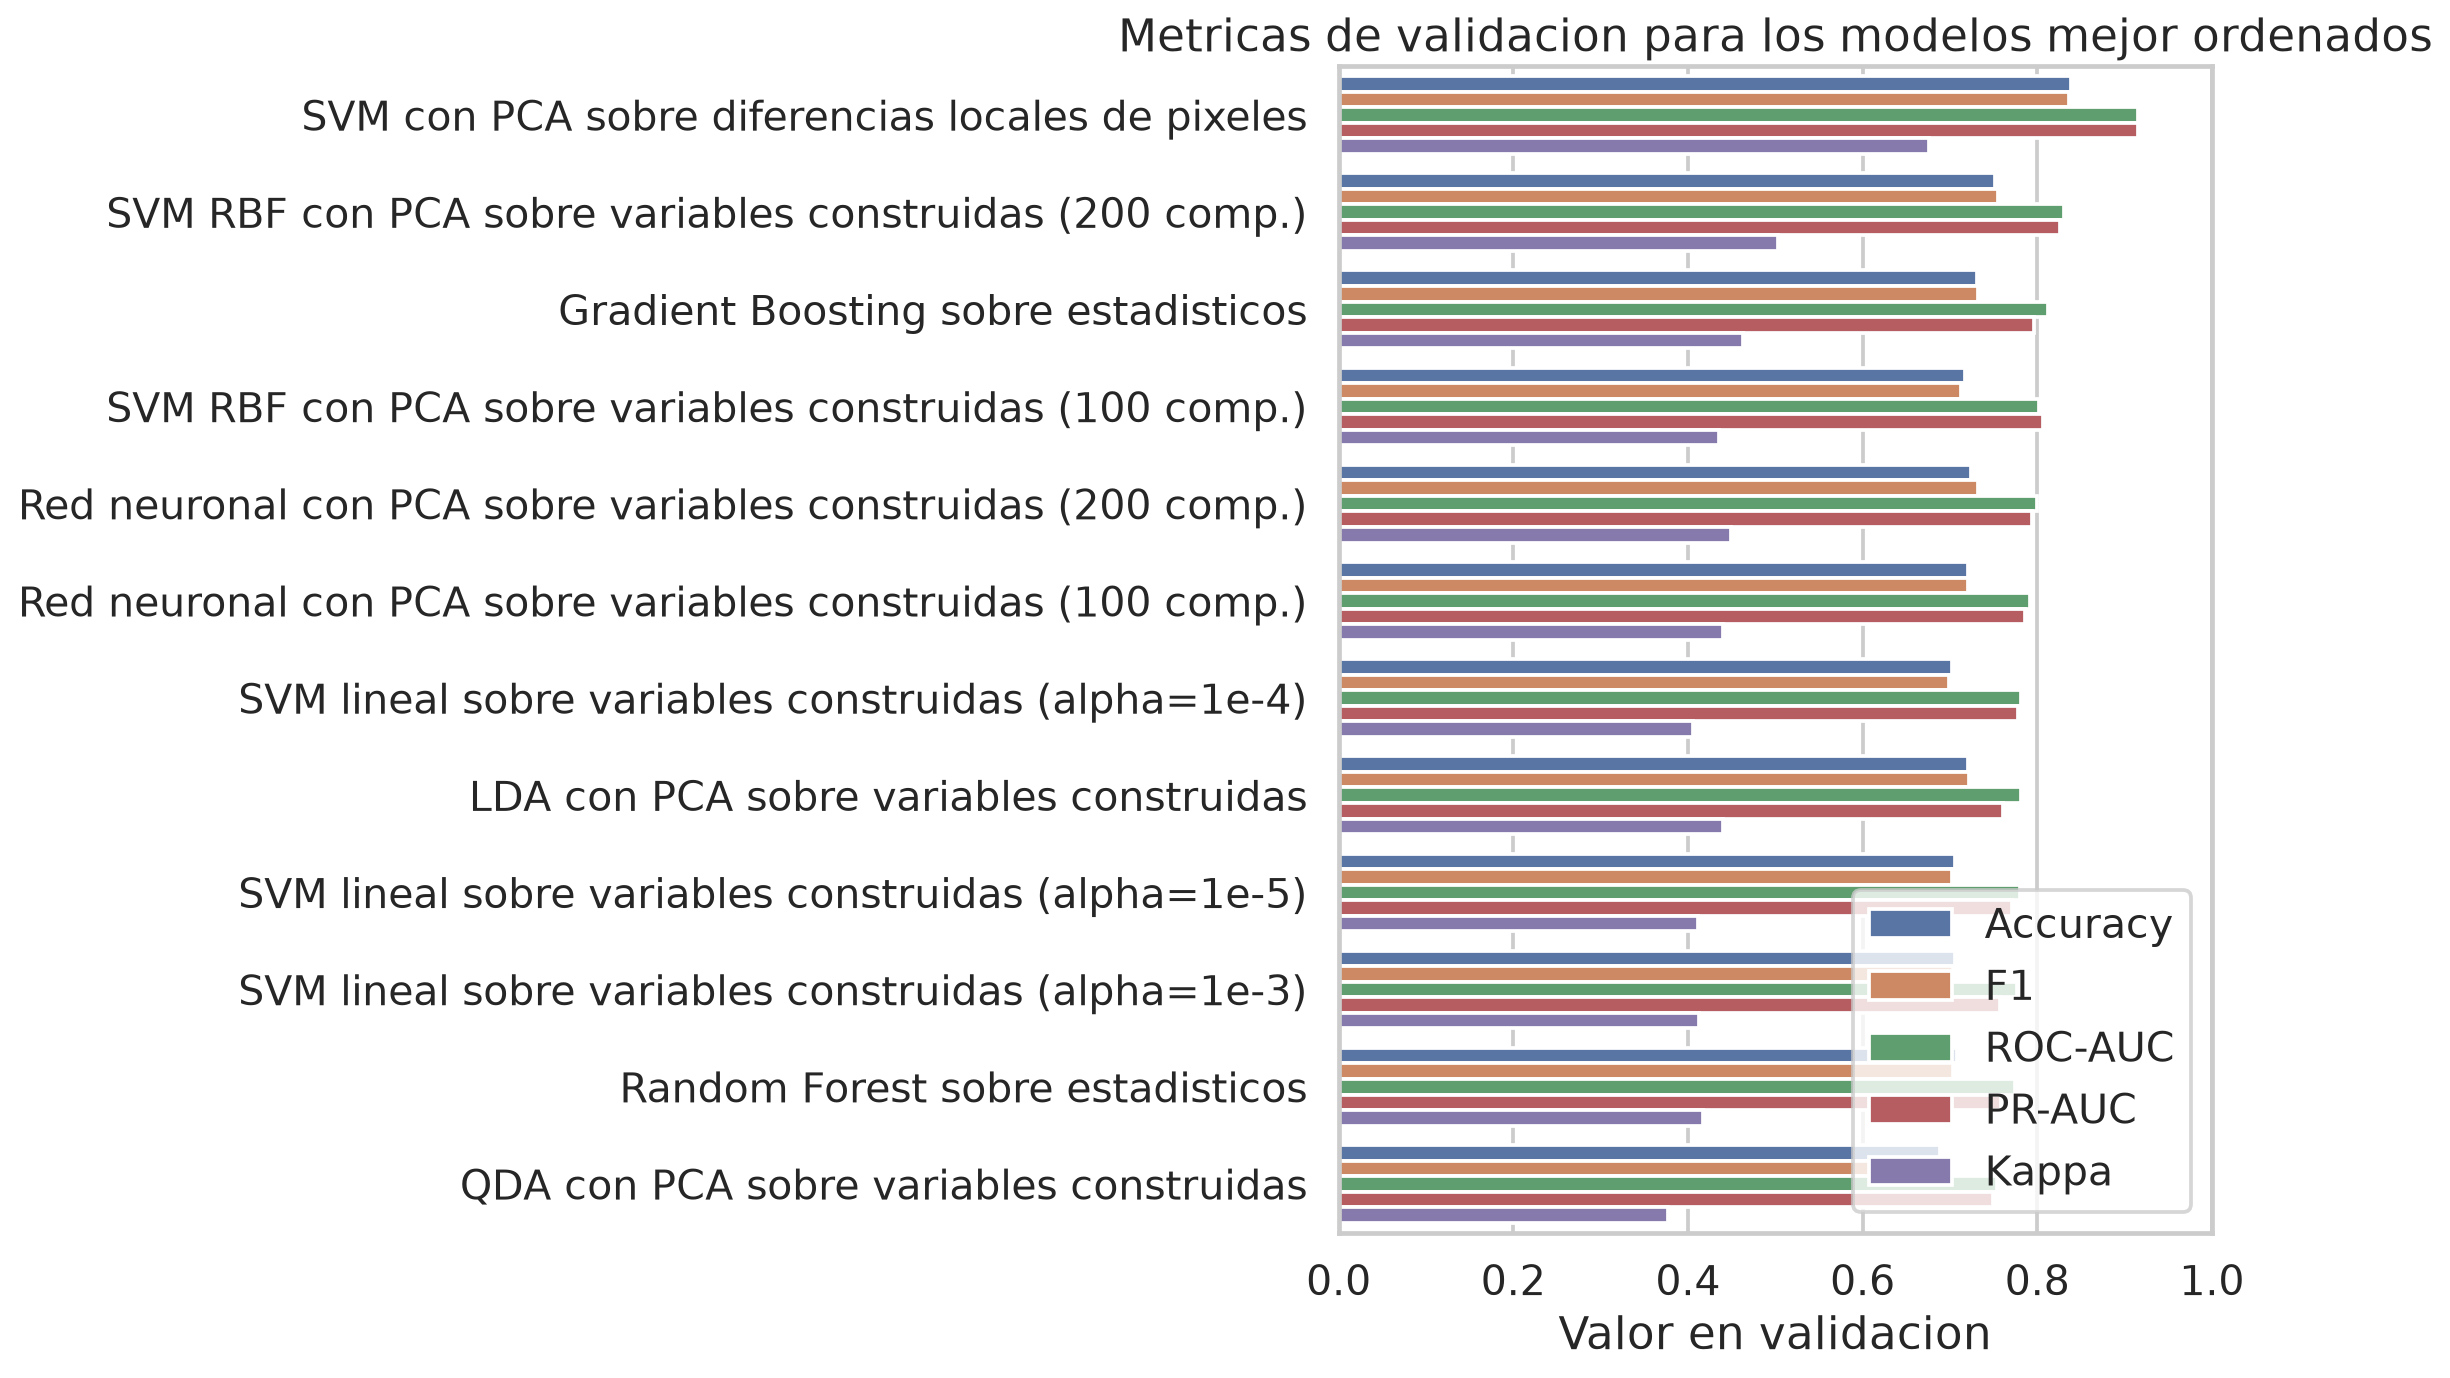
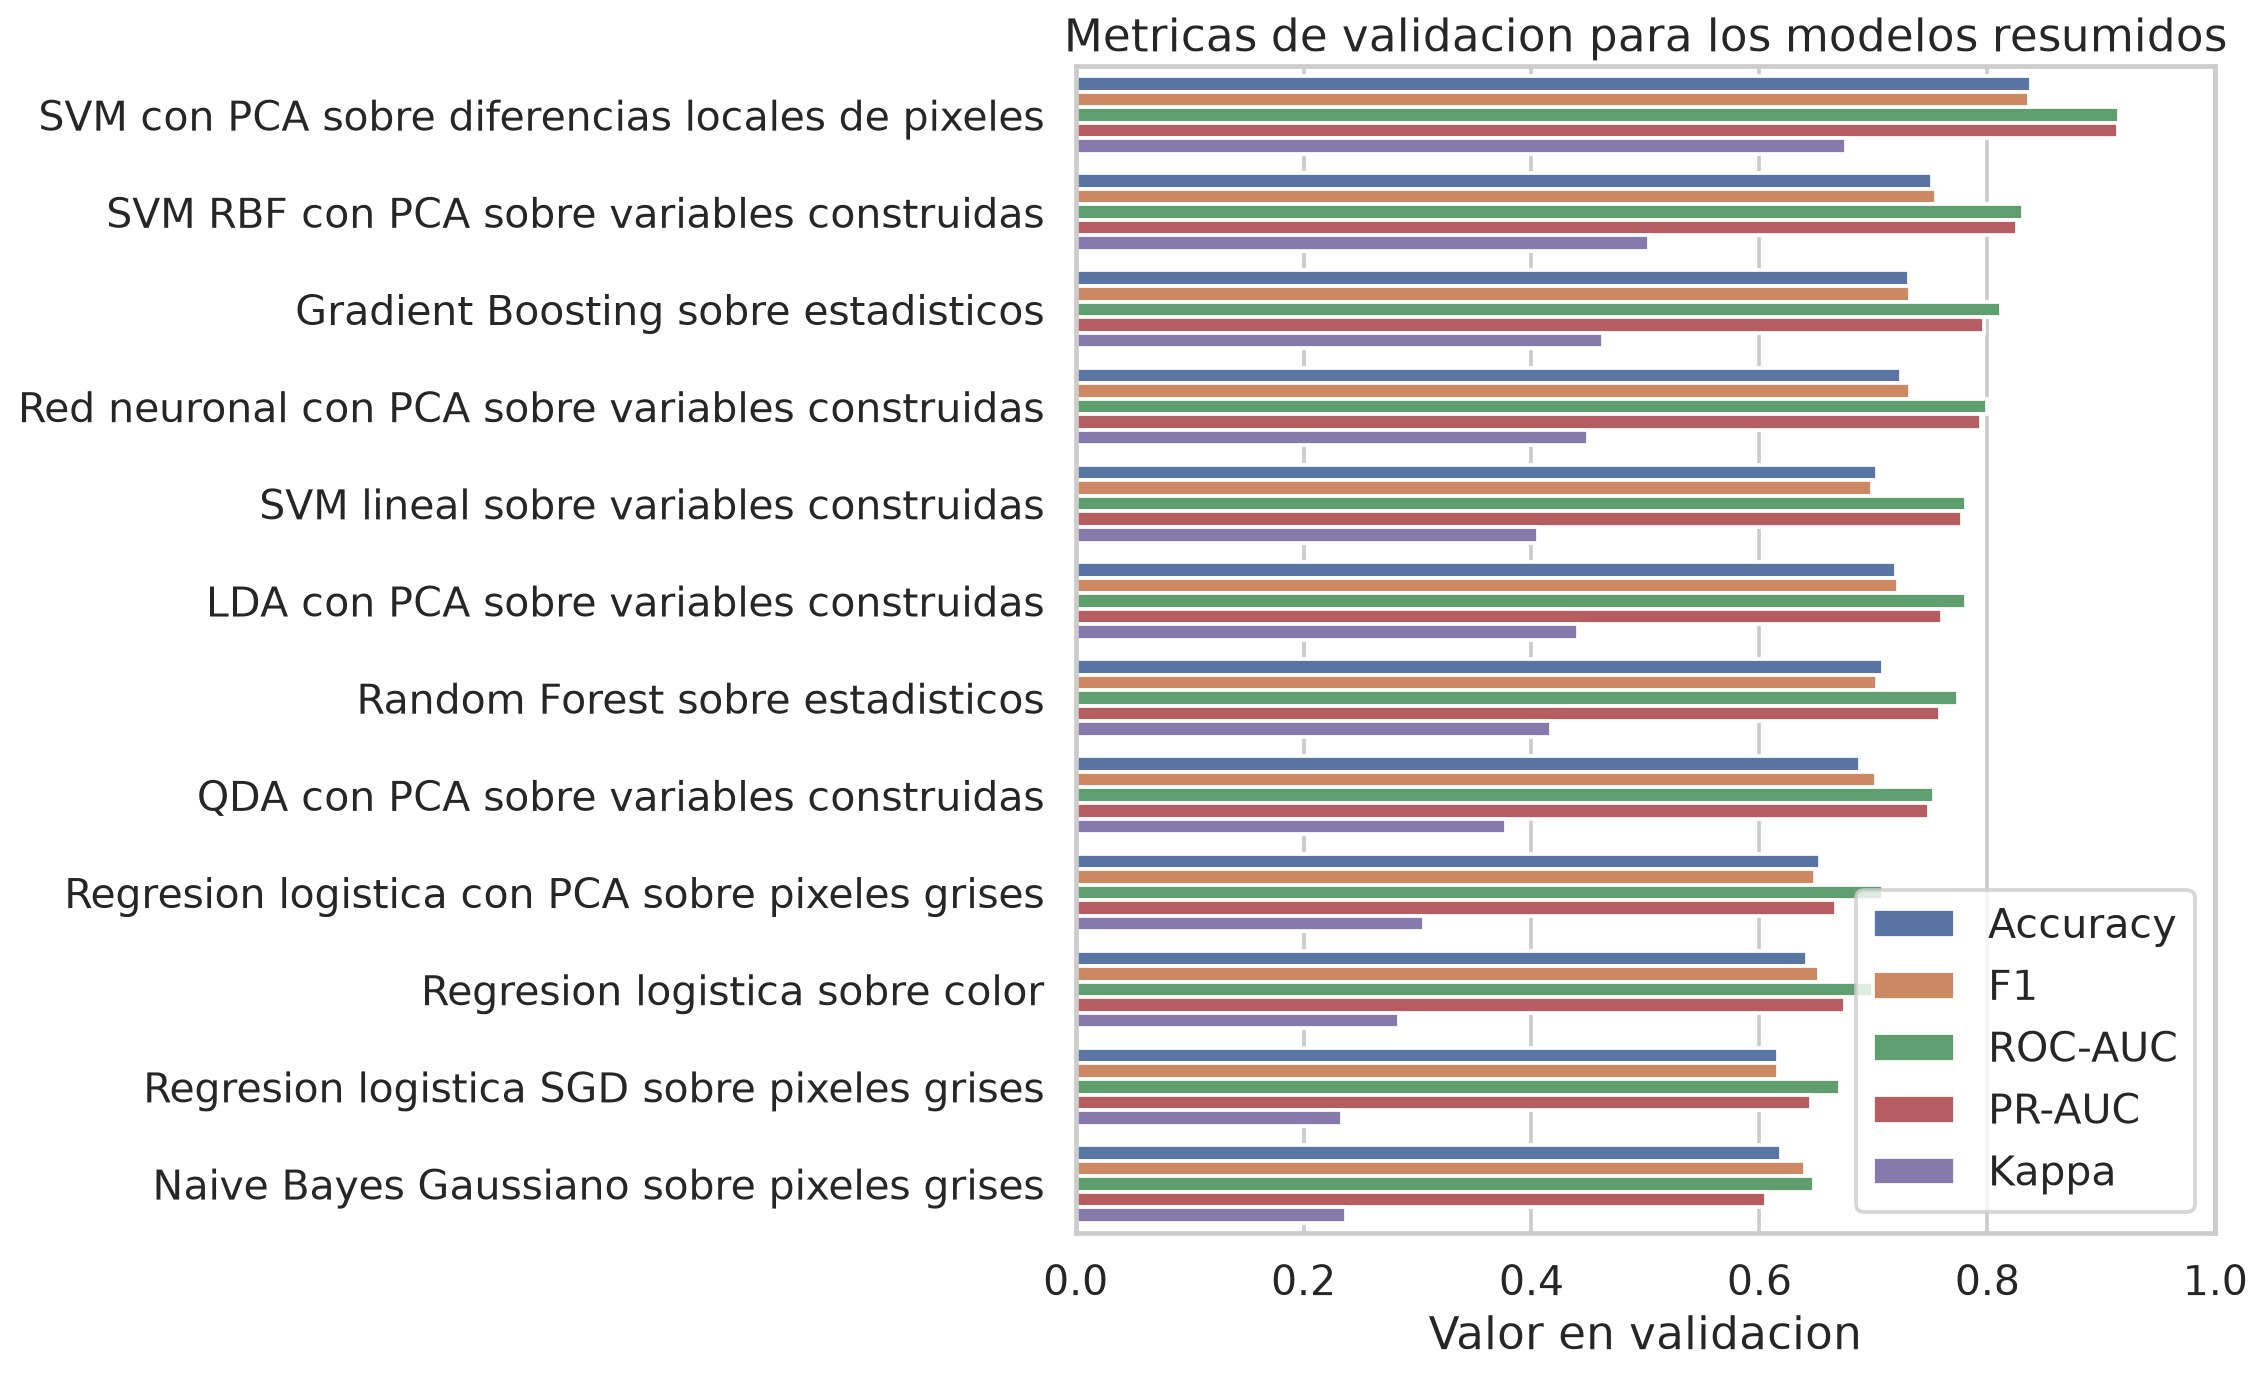
Add compact validation figures

diff --git a/src/proj_ds/report_assets.py b/src/proj_ds/report_assets.py
@@ -75,6 +75,7 @@ class ModelResult:
 @dataclass(frozen=True)
 class ValidationResult:
     public_name: str
+    model_group: str
     representation: str
     preprocessing: str
     feature_dim: int
@@ -106,6 +107,7 @@ def generate_report_assets() -> None:
     plot_feature_dimensions(data)
     plot_metric_comparison([planned_result, residual_result])
     plot_validation_roc_auc(all_validation_results)
+    plot_validation_roc_auc_compact(all_validation_results)
     plot_validation_top_metrics(all_validation_results)
     plot_confusion_matrix(residual_result)
     plot_roc_pr_curves(residual_result)
@@ -136,6 +138,7 @@ def evaluate_planned_validation_models(
         results.append(
             ValidationResult(
                 public_name=public_model_name(candidate.model_id),
+                model_group=validation_model_group(candidate.model_id),
                 representation=feature_label(candidate.features),
                 preprocessing=preprocessing_label(candidate.model_id),
                 feature_dim=int(x.shape[1]),
@@ -242,6 +245,7 @@ def evaluate_residual_model() -> tuple[ModelResult, ValidationResult]:
         ),
         ValidationResult(
             public_name=public_name,
+            model_group="residual_texture_svm",
             representation="Diferencias locales de pixeles",
             preprocessing="Estandarizacion + PCA con whitening",
             feature_dim=int(features.shape[1]),
@@ -447,9 +451,48 @@ def plot_validation_roc_auc(results: list[ValidationResult]) -> None:
     save_current_figure("10_validacion_roc_auc_modelos.png")
 
 
+def plot_validation_roc_auc_compact(results: list[ValidationResult]) -> None:
+    ordered = sorted(
+        compact_validation_results(results),
+        key=lambda result: result.metrics["roc_auc"],
+    )
+    frame = pd.DataFrame(
+        {
+            "modelo": [compact_model_name(result.model_group) for result in ordered],
+            "roc_auc": [result.metrics["roc_auc"] for result in ordered],
+        }
+    )
+    plt.figure(figsize=(12, 8))
+    axis = sns.barplot(data=frame, x="roc_auc", y="modelo", color="#4C78A8")
+    axis.set_xlim(0, 1)
+    axis.set_xlabel("ROC-AUC en validacion")
+    axis.set_ylabel("")
+    axis.set_title("Comparacion resumida de modelos en validacion")
+    save_current_figure("12_validacion_roc_auc_modelos_resumida.png")
+
+
+def compact_validation_results(
+    results: list[ValidationResult],
+) -> list[ValidationResult]:
+    excluded_groups = {"linear_svm_single_feature"}
+    selected: dict[str, ValidationResult] = {}
+    for result in results:
+        if result.model_group in excluded_groups:
+            continue
+        if result.model_group not in selected:
+            selected[result.model_group] = result
+            continue
+        current = selected[result.model_group]
+        if result.metrics["roc_auc"] > current.metrics["roc_auc"]:
+            selected[result.model_group] = result
+    return list(selected.values())
+
+
 def plot_validation_top_metrics(results: list[ValidationResult]) -> None:
     ordered = sorted(
-        results, key=lambda result: result.metrics["roc_auc"], reverse=True
+        compact_validation_results(results),
+        key=lambda result: result.metrics["roc_auc"],
+        reverse=True,
     )[:12]
     selected_metrics: tuple[MetricName, ...] = (
         "accuracy",
@@ -463,7 +506,7 @@ def plot_validation_top_metrics(results: list[ValidationResult]) -> None:
     metric_values: list[float] = []
     for result in ordered:
         for metric in selected_metrics:
-            model_names.append(result.public_name)
+            model_names.append(compact_model_name(result.model_group))
             metric_names.append(metric_label(metric))
             metric_values.append(result.metrics[metric])
     frame = pd.DataFrame(
@@ -474,7 +517,7 @@ def plot_validation_top_metrics(results: list[ValidationResult]) -> None:
     axis.set_xlim(0, 1)
     axis.set_xlabel("Valor en validacion")
     axis.set_ylabel("")
-    axis.set_title("Metricas de validacion para los modelos mejor ordenados")
+    axis.set_title("Metricas de validacion para los modelos resumidos")
     axis.legend(title="")
     save_current_figure("11_validacion_metricas_top12.png")
 
@@ -651,6 +694,64 @@ def public_model_name(model_id: str) -> str:
         "pca_all_mlp_k200": "Red neuronal con PCA sobre variables construidas (200 comp.)",
     }
     return labels[model_id]
+
+
+def validation_model_group(model_id: str) -> str:
+    groups = {
+        "dummy_stratified": "baseline",
+        "raw_gray32_gnb": "naive_bayes_raw_gray",
+        "color_logreg": "logreg_color",
+        "texture_sgdsvm": "linear_svm_single_feature",
+        "frequency_sgdsvm": "linear_svm_single_feature",
+        "hog_sgdsvm_alpha0.0001": "linear_svm_single_feature",
+        "all_sgdsvm_alpha0.0001": "linear_svm_all",
+        "stats_tree": "tree_stats",
+        "stats_rf": "random_forest_stats",
+        "stats_hgb": "gradient_boosting_stats",
+        "pca_raw_logreg_k100": "pca_raw_logreg",
+        "pca_raw_knn_k100_n11": "pca_raw_knn",
+        "pca_all_rbfsvc_k100": "pca_all_rbfsvc",
+        "pca_all_lda": "pca_all_lda",
+        "pca_all_qda": "pca_all_qda",
+        "raw_gray32_sgdlog_alpha0.001": "sgd_logreg_raw_gray",
+        "raw_gray32_sgdsvm_alpha0.001": "linear_svm_single_feature",
+        "raw_gray32_sgdlog_alpha0.0001": "sgd_logreg_raw_gray",
+        "raw_gray32_sgdsvm_alpha0.0001": "linear_svm_single_feature",
+        "raw_gray32_sgdlog_alpha1e-05": "sgd_logreg_raw_gray",
+        "raw_gray32_sgdsvm_alpha1e-05": "linear_svm_single_feature",
+        "hog_sgdsvm_alpha0.001": "linear_svm_single_feature",
+        "all_sgdsvm_alpha0.001": "linear_svm_all",
+        "hog_sgdsvm_alpha1e-05": "linear_svm_single_feature",
+        "all_sgdsvm_alpha1e-05": "linear_svm_all",
+        "pca_raw_logreg_k200": "pca_raw_logreg",
+        "pca_raw_knn_k200_n11": "pca_raw_knn",
+        "pca_all_rbfsvc_k200": "pca_all_rbfsvc",
+        "pca_all_mlp_k100": "pca_all_mlp",
+        "pca_all_mlp_k200": "pca_all_mlp",
+    }
+    return groups[model_id]
+
+
+def compact_model_name(model_group: str) -> str:
+    labels = {
+        "baseline": "Baseline aleatorio estratificado",
+        "naive_bayes_raw_gray": "Naive Bayes Gaussiano sobre pixeles grises",
+        "logreg_color": "Regresion logistica sobre color",
+        "linear_svm_single_feature": "SVM lineal sobre una familia de variables",
+        "linear_svm_all": "SVM lineal sobre variables construidas",
+        "tree_stats": "Arbol de decision sobre estadisticos",
+        "random_forest_stats": "Random Forest sobre estadisticos",
+        "gradient_boosting_stats": "Gradient Boosting sobre estadisticos",
+        "pca_raw_logreg": "Regresion logistica con PCA sobre pixeles grises",
+        "pca_raw_knn": "k-NN con PCA sobre pixeles grises",
+        "pca_all_rbfsvc": "SVM RBF con PCA sobre variables construidas",
+        "pca_all_lda": "LDA con PCA sobre variables construidas",
+        "pca_all_qda": "QDA con PCA sobre variables construidas",
+        "sgd_logreg_raw_gray": "Regresion logistica SGD sobre pixeles grises",
+        "pca_all_mlp": "Red neuronal con PCA sobre variables construidas",
+        "residual_texture_svm": "SVM con PCA sobre diferencias locales de pixeles",
+    }
+    return labels[model_group]
 
 
 def preprocessing_label(model_id: str) -> str: